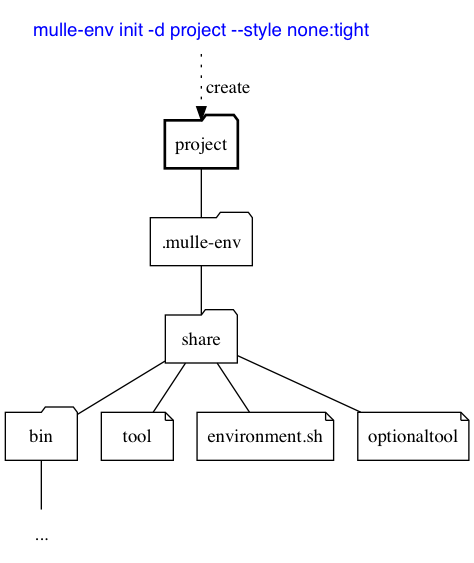
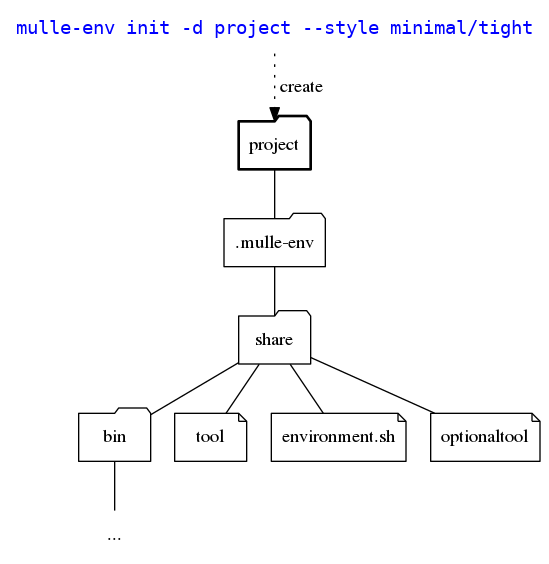
* fix dox, fix an ugly

Changed region(s): [[0.0, 0.151, 1.0, 0.9059], [0.0295, 0.0302, 0.9747, 0.0906]]

diff --git a/README.md b/README.md
@@ -85,10 +85,10 @@ Notice the absence of most environment variables and see how restricted the
 
 A directory must be "init"ed, before you can use **mulle-env** with it.
 Let's try an example with a `project` directory. We want a minimal portable set
-of commandline tools, so we specify the style as "none/tight".
+of commandline tools, so we specify the style as "minimal/tight".
 
 ```
-mulle-env init -d project --style none/tight
+mulle-env init -d project --style minimal/tight
 ```
 
 And this is what happens:

diff --git a/RELEASENOTES.md b/RELEASENOTES.md
@@ -1,3 +1,7 @@
+### 0.11.13
+
+* fix dox, fix an ugly
+
 ### 0.11.12
 
 * use : as += value delimiter, allow addition
